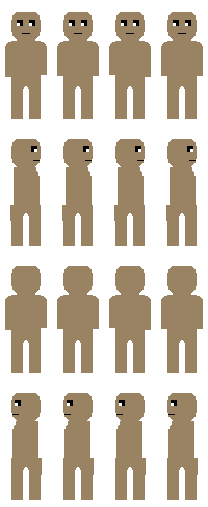
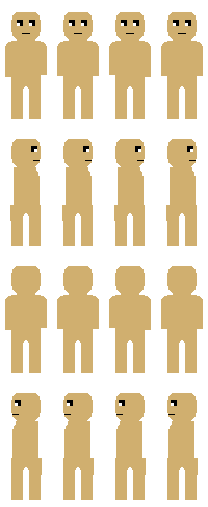
Easter egg...

diff --git a/main.js b/main.js
@@ -8427,6 +8427,11 @@ Game.loadDefaultImages = function () {
 		Player.skinTone = "slug"
 		Player.hair = "null";
 	}
+	if (Player.name === "Axparagus", "Tangerine") {
+		Player.skinTone = "humanDark2"
+		Player.hair = "skinFade";
+		Player.hat = "null";
+	}
 	// load image based on class
 	toLoad.push(Loader.loadImage("player_"+Player.skinTone, "./assets/playerCustom/skinTone/" + Player.skinTone + ".png", false));
 	toLoad.push(Loader.loadImage("player_"+Player.clothing, "./assets/playerCustom/clothing/" + className + "/" + Player.clothing + ".png", false));
